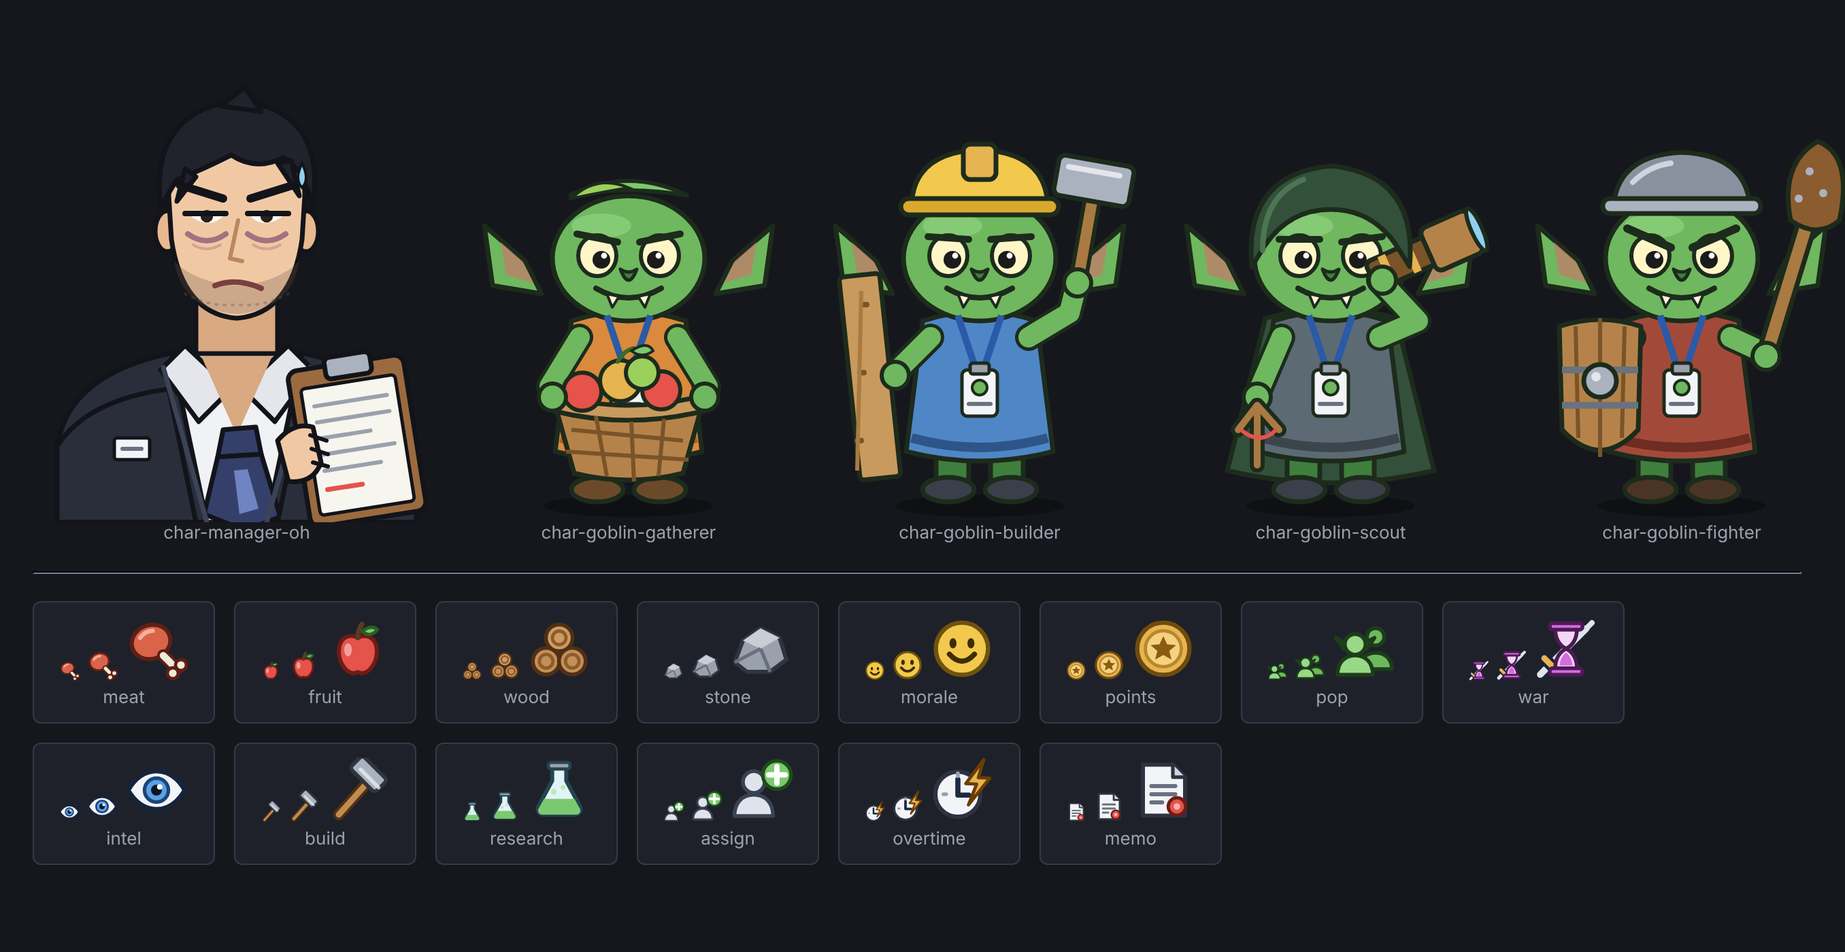
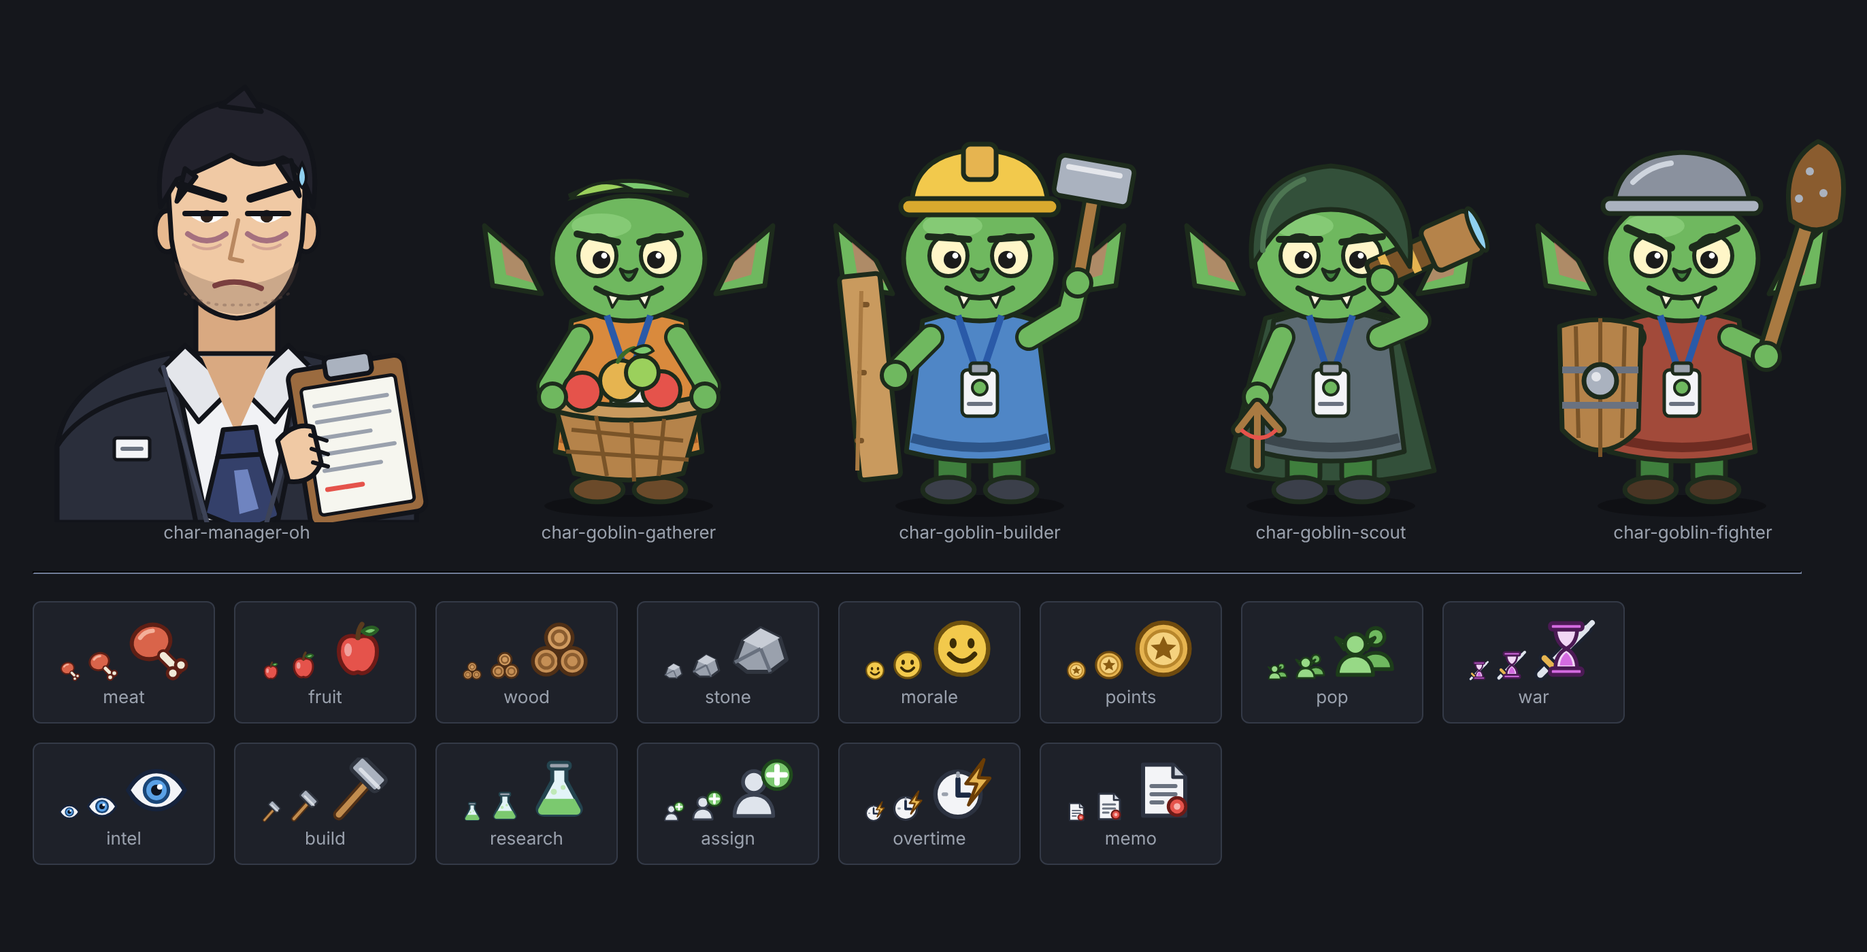
Finish onboarding research: art assets, prompts, storyboard fixes, handoff
Align storyboard text with the recommendations (war on day 8, consistent
countdown, no early Director objective) and add trailing newlines.

Claude-Session: https://claude.ai/code/session_01HGSJPtHUiWRLs3tTEwbmuU

diff --git a/projects/goblin-territory-manager/research/assets/first-session-flow.html b/projects/goblin-territory-manager/research/assets/first-session-flow.html
@@ -62,15 +62,15 @@ h1{margin:0 0 4px;font-size:22px}.sub{color:var(--muted);margin:0 0 22px}
 </svg>
 
 <h1>Goblin Territory Manager: the first 60 seconds</h1><p class="sub">Storyboard of the guided first session. One goal at a time, tabs revealed on demand, few numbers, calm default speed.</p>
-<div class="grid"><div class="cap"><h3>1. The memo</h3><p>One line, one button. Nothing else on screen.</p><div class="scr dim"><div class="top"><span class="ttl">Goblin Territory</span><span class="chip">Day 1</span><span class="sp"></span><span class="speed"><b class="on">||</b><b class="">&gt; Calm</b><b>&gt;&gt;</b></span></div><div class="center"><div class="memo"><img src="char-manager-oh.svg" class="bust"><div><div class="from"><svg class="ic" width="18" height="18"><use href="#i-memo"/></svg> MEMO FROM THE SYSTEM</div><p>You are now Lord.<br>War in <b>6 days</b>. Don't die.</p><button class="big">Start</button></div></div></div></div></div><div class="cap"><h3>2. Goal one: food</h3><p>Only the Valley, only Food and Days of food. The big + buttons are the whole UI.</p><div class="scr"><div class="top"><span class="ttl">Goblin Territory</span><span class="chip">Day 1</span><span class="sp"></span><span class="speed"><b class="on">||</b><b class="">&gt; Calm</b><b>&gt;&gt;</b></span></div><div class="res"><div class="r "><svg class="ic" width="20" height="20"><use href="#i-meat"/></svg><div><small>Food</small><strong>48</strong></div></div><div class="r warn"><svg class="ic" width="20" height="20"><use href="#i-pop"/></svg><div><small>Days of food</small><strong>3 days</strong></div></div></div><div class="tabs"><span class="on">Valley</span></div>
+<div class="grid"><div class="cap"><h3>1. The memo</h3><p>One line, one button. Nothing else on screen.</p><div class="scr dim"><div class="top"><span class="ttl">Goblin Territory</span><span class="chip">Day 1</span><span class="sp"></span><span class="speed"><b class="on">||</b><b class="">&gt; Calm</b><b>&gt;&gt;</b></span></div><div class="center"><div class="memo"><img src="char-manager-oh.svg" class="bust"><div><div class="from"><svg class="ic" width="18" height="18"><use href="#i-memo"/></svg> MEMO FROM THE SYSTEM</div><p>You are now Lord.<br>War in <b>8 days</b>. Don't die.</p><button class="big">Start</button></div></div></div></div></div><div class="cap"><h3>2. Goal one: food</h3><p>Only the Valley, only Food and Days of food. The big + buttons are the whole UI.</p><div class="scr"><div class="top"><span class="ttl">Goblin Territory</span><span class="chip">Day 1</span><span class="sp"></span><span class="speed"><b class="on">||</b><b class="">&gt; Calm</b><b>&gt;&gt;</b></span></div><div class="res"><div class="r "><svg class="ic" width="20" height="20"><use href="#i-meat"/></svg><div><small>Food</small><strong>48</strong></div></div><div class="r warn"><svg class="ic" width="20" height="20"><use href="#i-pop"/></svg><div><small>Days of food</small><strong>3 days</strong></div></div></div><div class="tabs"><span class="on">Valley</span></div>
 <div class="body"><div class="map" style="background-size:884.5714285714286px 589.7142857142857px;background-position:-81.08571428571427px -235.88571428571427px"></div><div class="mask"></div><div class="pen"><i class="g" style="left:14px;top:12px"></i><i class="g" style="left:34px;top:12px"></i><i class="g" style="left:54px;top:12px"></i><i class="g" style="left:74px;top:12px"></i><i class="g" style="left:94px;top:12px"></i><i class="g" style="left:114px;top:12px"></i><i class="g" style="left:14px;top:32px"></i><i class="g" style="left:34px;top:32px"></i><i class="g" style="left:54px;top:32px"></i><i class="g" style="left:74px;top:32px"></i><i class="g" style="left:94px;top:32px"></i><i class="g" style="left:114px;top:32px"></i><small>12 idle</small></div><div class="pulse" style="left:59px;top:48px"></div>
 <div class="side"><div class="goal"><div class="gh"><svg class="ic" width="20" height="20"><use href="#i-memo"/></svg><small>CURRENT GOAL</small></div><h4>Assign 4 goblins to gather fruit</h4><div class="asg"><img src="char-goblin-gatherer.svg"><button class="pm">-</button><span class="n">2</span><button class="pm plus">+</button></div><div class="bar"><i style="width:50%"></i></div></div></div></div></div></div><div class="cap"><h3>3. Reward, then reveal</h3><p>Number pop on completion. The Forest Edge and Wood appear exactly when the next goal needs them.</p><div class="scr"><div class="top"><span class="ttl">Goblin Territory</span><span class="chip">Day 1</span><span class="sp"></span><span class="speed"><b class="on">||</b><b class="">&gt; Calm</b><b>&gt;&gt;</b></span></div><div class="res"><div class="r "><svg class="ic" width="20" height="20"><use href="#i-meat"/></svg><div><small>Food</small><strong>72</strong></div></div><div class="r "><svg class="ic" width="20" height="20"><use href="#i-pop"/></svg><div><small>Days of food</small><strong>5 days</strong></div></div><div class="r new"><svg class="ic" width="20" height="20"><use href="#i-wood"/></svg><div><small>Wood</small><strong>0</strong></div></div></div><div class="tabs"><span class="on">Valley</span><span class="new">Forest Edge</span></div>
 <div class="body"><div class="map" style="background-size:884.5714285714286px 589.7142857142857px;background-position:-73.71428571428571px -66.34285714285714px"></div><div class="pop">+24 Food</div><div class="done"><svg class="ic" width="16" height="16"><use href="#i-points"/></svg> Goal complete +10</div><div class="pulse" style="left:293px;top:63px"></div>
 <div class="side low"><div class="goal"><div class="gh"><svg class="ic" width="20" height="20"><use href="#i-memo"/></svg><small>CURRENT GOAL</small></div><h4>Get wood: send 2 goblins to the Forest Edge</h4><div class="asg"><img src="char-goblin-builder.svg"><button class="pm">-</button><span class="n">0</span><button class="pm plus">+</button></div><div class="bar"><i style="width:0%"></i></div></div></div></div></div></div><div class="cap"><h3>4. Construction unlocks</h3><p>The tab appears with a NEW tag. One recommended item is highlighted, the rest are greyed.</p><div class="scr"><div class="top"><span class="ttl">Goblin Territory</span><span class="chip">Day 2</span><span class="sp"></span><span class="speed"><b class="on">||</b><b class="">&gt; Calm</b><b>&gt;&gt;</b></span></div><div class="res"><div class="r "><svg class="ic" width="20" height="20"><use href="#i-meat"/></svg><div><small>Food</small><strong>96</strong></div></div><div class="r "><svg class="ic" width="20" height="20"><use href="#i-pop"/></svg><div><small>Days of food</small><strong>6 days</strong></div></div><div class="r "><svg class="ic" width="20" height="20"><use href="#i-wood"/></svg><div><small>Wood</small><strong>30</strong></div></div></div><div class="tabs"><span class="">Valley</span><span class="">Forest Edge</span><span class="on new">Construction</span></div>
 <div class="body col"><div class="goal"><div class="gh"><svg class="ic" width="20" height="20"><use href="#i-memo"/></svg><small>CURRENT GOAL</small></div><h4>Build a palisade</h4><p class="m">Cheap, quick, and the enemy hates it.</p></div>
-<div class="list"><div class="it rec"><svg class="ic" width="28" height="28"><use href="#i-build"/></svg><div><b>Palisade</b><small><svg class="ic" width="14" height="14"><use href="#i-wood"/></svg> 30 &middot; 1 builder</small></div><span class="tag">Recommended</span><button class="plusb">Build</button></div><div class="it off"><svg class="ic" width="28" height="28"><use href="#i-build"/></svg><div><b>Watchtower</b><small>locked</small></div></div><div class="it off"><svg class="ic" width="28" height="28"><use href="#i-research"/></svg><div><b>Workshop</b><small>locked</small></div></div></div></div></div></div><div class="cap"><h3>5. Scout the enemy</h3><p>War Room unlocks with a countdown and one clear You vs. Enemy bar. Enemy strength is a fogged estimate until scouted.</p><div class="scr"><div class="top"><span class="ttl">Goblin Territory</span><span class="chip">Day 3</span><span class="sp"></span><span class="war"><svg class="ic" width="18" height="18"><use href="#i-war"/></svg> War in 6 days</span><span class="speed"><b class="on">||</b><b class="">&gt; Calm</b><b>&gt;&gt;</b></span></div><div class="res"><div class="r "><svg class="ic" width="20" height="20"><use href="#i-meat"/></svg><div><small>Food</small><strong>120</strong></div></div><div class="r "><svg class="ic" width="20" height="20"><use href="#i-wood"/></svg><div><small>Wood</small><strong>54</strong></div></div><div class="r "><svg class="ic" width="20" height="20"><use href="#i-points"/></svg><div><small>Points</small><strong>10</strong></div></div></div><div class="tabs"><span class="">Valley</span><span class="">Forest Edge</span><span class="">Construction</span><span class="on new">War Room</span></div>
-<div class="body col"><div class="cd"><svg class="ic" width="34" height="34"><use href="#i-war"/></svg><div><small>TERRITORY WAR IN</small><strong>3d 18h</strong></div></div>
+<div class="list"><div class="it rec"><svg class="ic" width="28" height="28"><use href="#i-build"/></svg><div><b>Palisade</b><small><svg class="ic" width="14" height="14"><use href="#i-wood"/></svg> 30 &middot; 1 builder</small></div><span class="tag">Recommended</span><button class="plusb">Build</button></div><div class="it off"><svg class="ic" width="28" height="28"><use href="#i-build"/></svg><div><b>Watchtower</b><small>locked</small></div></div><div class="it off"><svg class="ic" width="28" height="28"><use href="#i-research"/></svg><div><b>Workshop</b><small>locked</small></div></div></div></div></div></div><div class="cap"><h3>5. Scout the enemy</h3><p>War Room unlocks with a countdown and one clear You vs. Enemy bar. Enemy strength is a fogged estimate until scouted.</p><div class="scr"><div class="top"><span class="ttl">Goblin Territory</span><span class="chip">Day 3</span><span class="sp"></span><span class="war"><svg class="ic" width="18" height="18"><use href="#i-war"/></svg> War in 4d 18h</span><span class="speed"><b class="on">||</b><b class="">&gt; Calm</b><b>&gt;&gt;</b></span></div><div class="res"><div class="r "><svg class="ic" width="20" height="20"><use href="#i-meat"/></svg><div><small>Food</small><strong>120</strong></div></div><div class="r "><svg class="ic" width="20" height="20"><use href="#i-wood"/></svg><div><small>Wood</small><strong>54</strong></div></div><div class="r "><svg class="ic" width="20" height="20"><use href="#i-points"/></svg><div><small>Points</small><strong>10</strong></div></div></div><div class="tabs"><span class="">Valley</span><span class="">Forest Edge</span><span class="">Construction</span><span class="on new">War Room</span></div>
+<div class="body col"><div class="cd"><svg class="ic" width="34" height="34"><use href="#i-war"/></svg><div><small>TERRITORY WAR IN</small><strong>4d 18h</strong></div></div>
 <div class="vs"><div class="vh"><span class="good">You 34</span><span class="bad">Enemy ??</span></div><div class="vb"><i class="you" style="width:44%"></i><i class="foe" style="width:56%"></i><i class="fog"></i></div></div>
-<div class="goal"><div class="gh"><svg class="ic" width="20" height="20"><use href="#i-memo"/></svg><small>CURRENT GOAL</small></div><h4>Scout the enemy</h4><div class="asg"><img src="char-goblin-scout.svg"><button class="pm">-</button><span class="n">1</span><button class="pm plus">+</button><span class="m" style="margin-left:8px"><svg class="ic" width="16" height="16"><use href="#i-intel"/></svg> reveals enemy strength</span></div></div></div></div></div><div class="cap"><h3>6. Calm pace and a checklist</h3><p>Default speed is Calm (slow). A small objectives card in the corner replaces the wall of text; the advisor speaks in short memos.</p><div class="scr"><div class="top"><span class="ttl">Goblin Territory</span><span class="chip">Day 3</span><span class="sp"></span><span class="war"><svg class="ic" width="18" height="18"><use href="#i-war"/></svg> War in 6 days</span><span class="speed"><b class="">||</b><b class="on">&gt; Calm</b><b>&gt;&gt;</b></span></div><div class="res"><div class="r "><svg class="ic" width="20" height="20"><use href="#i-meat"/></svg><div><small>Food</small><strong>120</strong></div></div><div class="r "><svg class="ic" width="20" height="20"><use href="#i-wood"/></svg><div><small>Wood</small><strong>54</strong></div></div><div class="r "><svg class="ic" width="20" height="20"><use href="#i-points"/></svg><div><small>Points</small><strong>10</strong></div></div></div><div class="tabs"><span class="">Valley</span><span class="">Forest Edge</span><span class="">Construction</span><span class="on">War Room</span></div>
-<div class="body"><div class="map" style="background-size:755.1219512195122px 503.4146341463415px;background-position:-69.21951219512195px -37.75609756097561px"></div><div class="check"><h5>Objectives</h5><p class="ok">Feed the goblins</p><p class="ok">Get wood</p><p class="ok">Build a palisade</p><p class="now">Scout the enemy</p><p>Pick a Director</p></div>
+<div class="goal"><div class="gh"><svg class="ic" width="20" height="20"><use href="#i-memo"/></svg><small>CURRENT GOAL</small></div><h4>Scout the enemy</h4><div class="asg"><img src="char-goblin-scout.svg"><button class="pm">-</button><span class="n">1</span><button class="pm plus">+</button><span class="m" style="margin-left:8px"><svg class="ic" width="16" height="16"><use href="#i-intel"/></svg> reveals enemy strength</span></div></div></div></div></div><div class="cap"><h3>6. Calm pace and a checklist</h3><p>Default speed is Calm (slow). A small objectives card in the corner replaces the wall of text; the advisor speaks in short memos.</p><div class="scr"><div class="top"><span class="ttl">Goblin Territory</span><span class="chip">Day 3</span><span class="sp"></span><span class="war"><svg class="ic" width="18" height="18"><use href="#i-war"/></svg> War in 4d 18h</span><span class="speed"><b class="">||</b><b class="on">&gt; Calm</b><b>&gt;&gt;</b></span></div><div class="res"><div class="r "><svg class="ic" width="20" height="20"><use href="#i-meat"/></svg><div><small>Food</small><strong>120</strong></div></div><div class="r "><svg class="ic" width="20" height="20"><use href="#i-wood"/></svg><div><small>Wood</small><strong>54</strong></div></div><div class="r "><svg class="ic" width="20" height="20"><use href="#i-points"/></svg><div><small>Points</small><strong>10</strong></div></div></div><div class="tabs"><span class="">Valley</span><span class="">Forest Edge</span><span class="">Construction</span><span class="on">War Room</span></div>
+<div class="body"><div class="map" style="background-size:755.1219512195122px 503.4146341463415px;background-position:-69.21951219512195px -37.75609756097561px"></div><div class="check"><h5>Objectives</h5><p class="ok">Feed the goblins</p><p class="ok">Get wood</p><p class="ok">Build a palisade</p><p class="now">Scout the enemy</p><p>Post warriors at the target</p></div>
 <div class="toast"><svg class="ic" width="20" height="20"><use href="#i-memo"/></svg><span>Scout is back. Enemy is stronger. Overtime helps.</span></div><div class="speedhint">Calm 1x. Time only moves forward when you let it.</div></div></div></div></div></body></html>

diff --git a/projects/goblin-territory-manager/research/assets/image-prompts.md b/projects/goblin-territory-manager/research/assets/image-prompts.md
@@ -1,0 +1,36 @@
+# Image generation prompts
+
+Shared style block (append to every prompt, adjust per tool): `corporate satire meets dark fantasy, stylized 2D digital illustration, clean confident linework, flat cel shading with soft rim light, limited palette of deep charcoal #15171c, goblin green #7bc96f, warning amber #e6b450, accent blue #5aa1e6, war purple #d46be0, danger red #e5534b, readable silhouettes, slightly desaturated, subtle grain`
+
+Shared negative: `photorealistic, 3D render, text, letters, watermark, signature, logo, extra fingers, deformed hands, blurry, low contrast, cluttered background, anime screenshot, copied character, celebrity likeness, nsfw`
+
+Original archetypes only. Do not reference any artist or existing characters by name.
+
+## 1. Manager Oh key art (3:4, 1536x2048)
+`Half-body illustration of a worn-out Korean office worker in his early thirties, sharp jaw, messy black hair, deep eye bags, tired but determined stare, white dress shirt with loosened dark navy tie, suit jacket slung over one shoulder, clutching a clipboard, standing at a crude wooden desk in the middle of a muddy goblin camp at dusk, torches and a violet demon-realm sky behind him, goblins peeking from the edges, low-angle heroic framing, strong rim light, [shared style block]` 
+Aspect: --ar 3:4. Negative: shared + `smiling, glamorous, muscular hero`.
+
+## 2. Goblin role portraits (1:1, 1024x1024 each, same seed/style reference for consistency)
+Common: `cute-but-scrappy green goblin, short, huge pointed ears, tiny fangs, oversized head, wearing a tiny employee ID lanyard, chest-up portrait, plain dark charcoal background, soft rim light`
+- Gatherer: `carrying a woven basket overflowing with red and yellow forest fruit, leaf headband, orange tunic, cheerful greedy grin`
+- Builder: `yellow hard hat, holding a stone-headed hammer and a rough wooden plank, blue tunic, sawdust, focused squint`
+- Scout: `dark green hood and short cloak, brass spyglass raised to one eye, slingshot on belt, grey tunic, cautious sideways glance`
+- Fighter: `battered pot helmet, spiked wooden club on shoulder, round plank shield with iron boss, red-brown tunic, brave but nervous scowl`
+Negative: shared + `orc, ogre, tall, realistic skin, gore`.
+
+## 3. Icon set (1:1 sheet, 2048x2048, 4x4 grid)
+`Game UI icon set on a dark charcoal background, 14 icons in a 4x4 grid with even spacing: meat drumstick, red apple, stacked logs, grey stone, smiling morale face, gold contribution coin with star, group of goblin heads, hourglass with crossed sword, eye, hammer, green chemistry flask, person with plus badge, clock with lightning bolt, paper memo with red seal. Chunky bold outline, flat colors with one highlight, consistent 2px-equivalent stroke, centered, large padding, readable at 24px, [shared style block]`
+Negative: shared + `text labels, numbers, gradients everywhere, photoreal, inconsistent style`.
+
+## 4. Territory map (3:2, 1800x1200)
+`Stylized top-down isometric-lite fantasy map for a strategy game: a green valley at lower left with fruit trees and a tiny crude hut containing an office desk and lamp, a dark pine Forest Edge to the north with logs and a deer, a winding blue Riverbank to the south east with grey boulders and a fish, a fog-covered purple Spider Forest to the north east with faint webs, dirt paths connecting zones, a red-lit hostile border with banners and spikes along the east edge, empty space around nodes for UI icons, moody dusk lighting, [shared style block]`
+Negative: shared + `text, labels, compass, grid lines, characters in foreground, realistic satellite look`.
+
+## 5. Title / splash screen (16:9, 1920x1080)
+`Wide title screen illustration: a tired office worker silhouette in a loosened tie sitting behind a tiny desk on a hill, facing a crowd of hundreds of small green goblins holding clipboards, lanterns and hammers, a huge violet moon and a distant red enemy fortress on the horizon, large empty area at upper center for a game logo, cinematic depth, volumetric mist, dark humor mood, [shared style block]`
+Aspect: --ar 16:9. Negative: shared + `readable logo text, title text, crowd faces in photoreal detail`.
+
+## Tool notes
+- Midjourney: add `--style raw --s 150 --no text, watermark`; use `--sref` of your own approved SVG renders for consistency.
+- SDXL/Flux: use the negative as the negative prompt (Flux: fold into positive as "no text"). CFG 5-7 SDXL.
+- DALL-E: drop `[shared style block]` placeholders by pasting the style block text; drop weight syntax.

diff --git a/projects/goblin-territory-manager/research/assets/README.md b/projects/goblin-territory-manager/research/assets/README.md
@@ -1,0 +1,14 @@
+# Goblin Territory Manager: visual assets
+
+All SVGs are self-contained, hand-authored, flat 2D, no text inside icons. Palette follows the game CSS (bg #15171c, panel #1e2129, accent green #7bc96f, blue #5aa1e6, warn #e6b450, bad #e5534b, war #d46be0).
+
+| File | Use in game |
+|---|---|
+| `char-manager-oh.svg` (300x360) | Advisor/memo portrait, intro card, dialogue box. Bust with clipboard. |
+| `char-goblin-gatherer.svg`, `-builder.svg`, `-scout.svg`, `-fighter.svg` (240x300; fighter 256x300) | Role portraits for assign cards, roster, goal cards. Each has an ID lanyard. |
+| `icons.svg` | Sprite of 14 `<symbol id="i-NAME" viewBox="0 0 24 24">`: meat, fruit, wood, stone, morale, points, pop, war, intel, build, research, assign, overtime, memo. Inline it once in the page, then `<svg width="20" height="20"><use href="#i-meat"/></svg>`. (External `<use>` from a file only works over http, not file://.) |
+| `icons-preview.html` | Quick review page for the sprite at 16/24/48px. |
+| `territory-overview.svg` (1200x800) | Clickable-map background. Groups have ids: `zone-valley`, `zone-forest`, `zone-river`, `zone-spider`, `enemy-border`, `paths`, `lord-hut`, `lord-desk`, `node-*`, `war-marker`; each zone also has a `*-area` path usable for hit-testing. Spider Forest is fogged (unexplored); reveal by hiding the fog group content. |
+| `first-session-flow.html` / `.png` | 6-panel storyboard of the guided first session (memo, food goal, reveal wood, construction, war room scout, calm speed + checklist). Uses the SVGs above. |
+| `contact-sheet.png` | All characters and icons on the dark background for review. |
+| `image-prompts.md` | Prompts for richer AI-generated versions (key art, portraits, icon set, map, splash). |

diff --git a/handoffs/2026-11-04-gtm-onboarding-research.md b/handoffs/2026-11-04-gtm-onboarding-research.md
@@ -1,0 +1,26 @@
+# 2026-11-04: Goblin Territory Manager onboarding research (Claude)
+
+## What was done
+- Three Sonnet subagents researched:
+  - the *Goblin Corporation* manhwa;
+  - onboarding and pacing in management and idle games;
+  - the art: SVG characters, icons and territory map, plus a first-session storyboard and image prompts.
+- Claude combined the results into `projects/goblin-territory-manager/research/onboarding-recommendations.md`. Each change is mapped to file and line.
+- Everything is in `projects/goblin-territory-manager/research/`.
+
+## What's next
+- Implement P0 from the recommendations:
+  - start idle, with a food problem to fix
+  - an intro memo
+  - a pinned objective chain
+  - progressive reveal of tabs and resources
+  - 1x = 1 tick/s
+  - first war on day 8
+  - auto-pause
+  - rewind on defeat
+- Update `tests/sim.test.js` for the new starting food and war day.
+
+## Open questions (owner)
+- Keep permadeath on a lost war (with a rewind), or make war #1 a soft fail?
+- First war on day 8? It's the compromise between the premise's urgency and the genre research's day 10.
+- Advisor: the original "Gruk from HR", or Manager Oh's inner voice?
